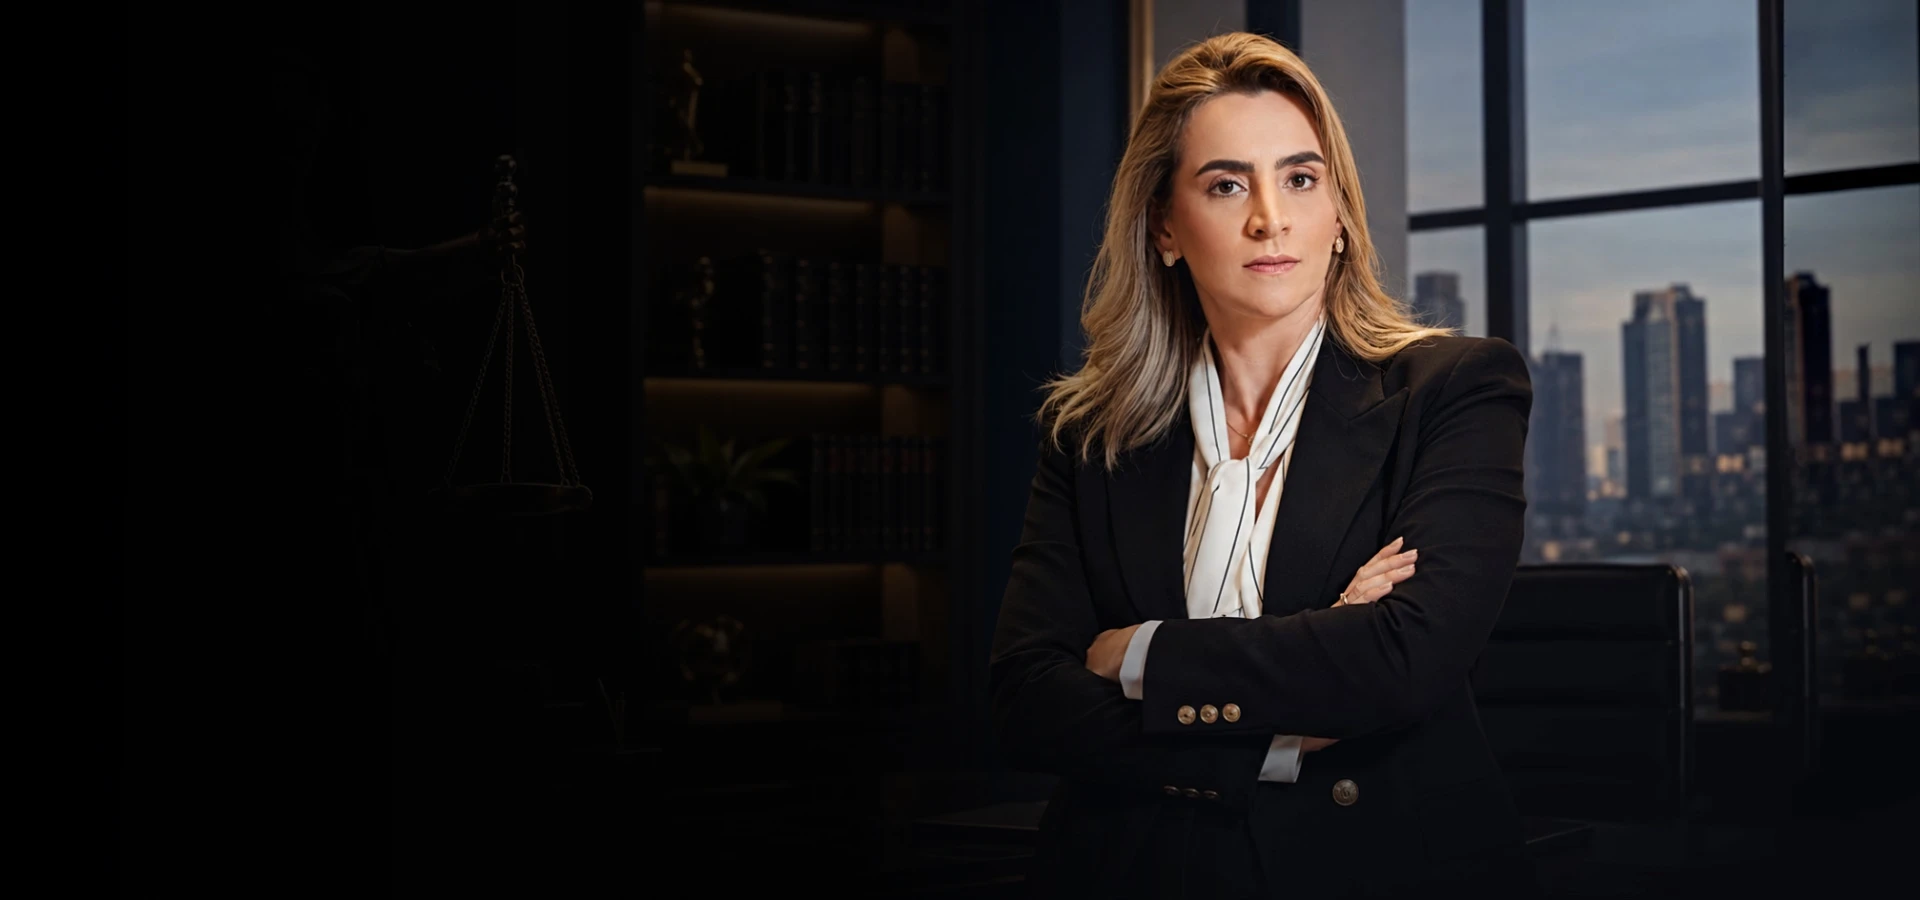
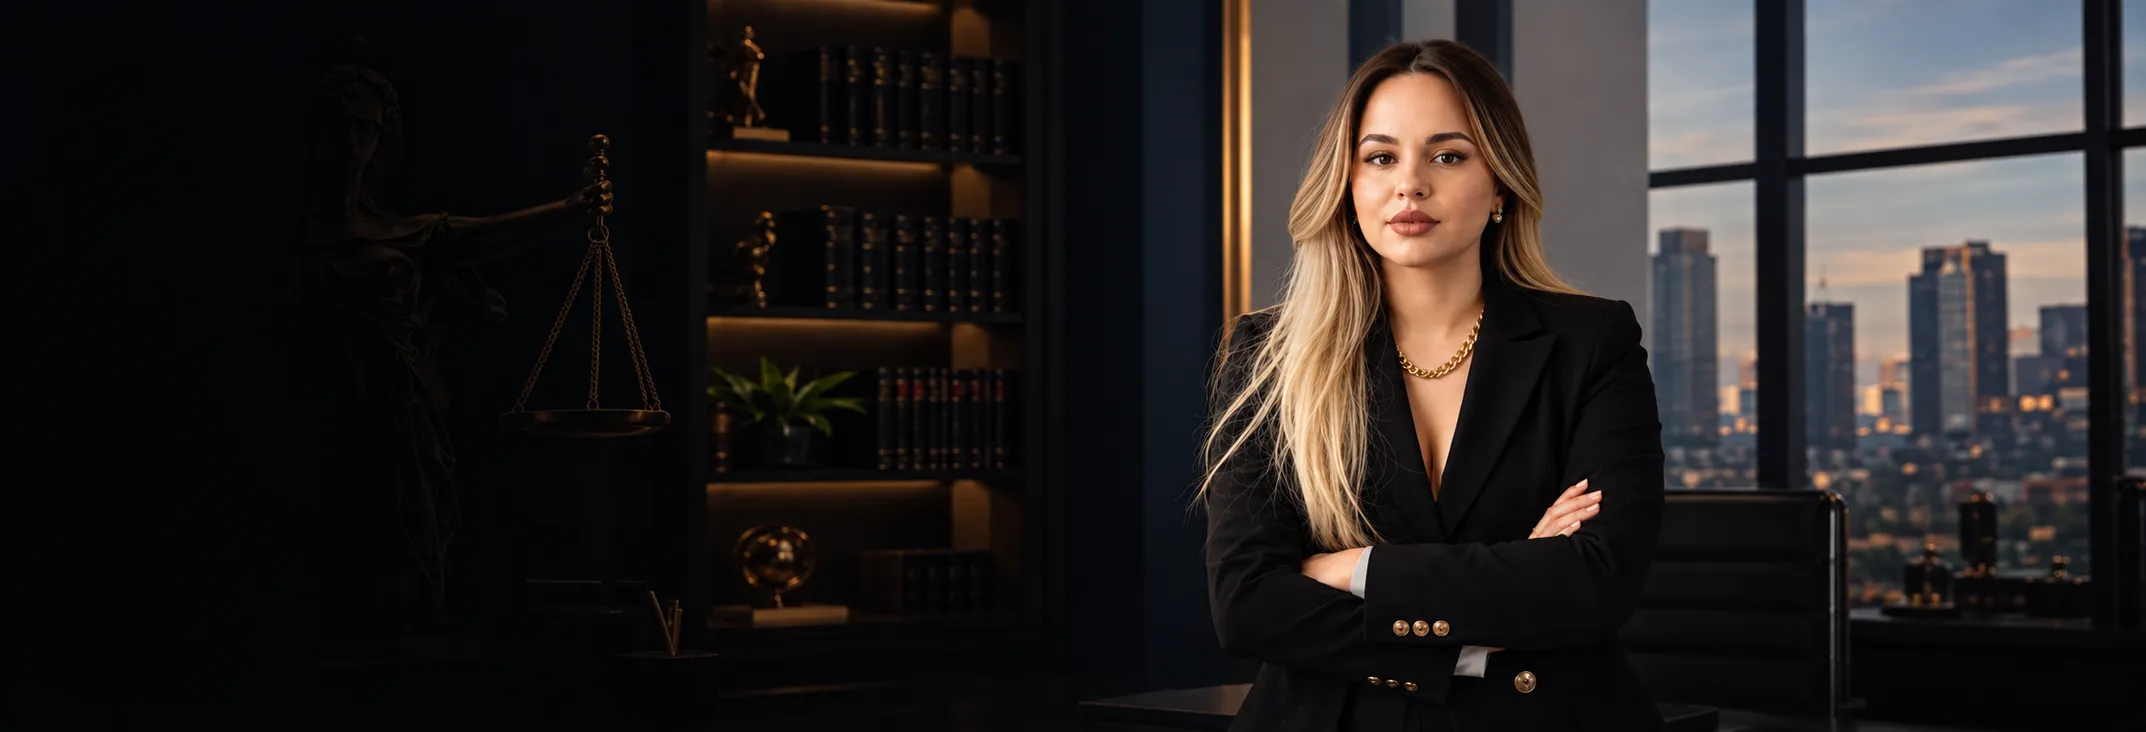
Add files via upload

diff --git a/index.html b/index.html
@@ -113,10 +113,7 @@
 <section class="section" id="sobre">
   <div class="container about-grid">
     <div class="about-figure" data-reveal>
-      <picture>
-        <source srcset="assets/advogada.avif" type="image/avif">
-        <img src="assets/advogada.jpg" alt="Dra. Ana Cíntia Rodrigues" class="about-photo" width="1000" height="1333" loading="lazy" decoding="async">
-      </picture>
+      <img src="assets/advogada.webp" alt="Dra. Ana Cíntia Rodrigues" class="about-photo" width="1086" height="1448" loading="lazy" decoding="async">
     </div>
     <div class="about-copy" data-reveal>
       <p class="eyebrow">Quem é a advogada</p>

diff --git a/css/style.css b/css/style.css
@@ -179,6 +179,7 @@ a { color: inherit; text-decoration: none; }
   background-size: cover;
   background-position: center top;
   background-repeat: no-repeat;
+  background-color: #000;
   z-index: 0;
 }
 @media (max-width: 760px) {
